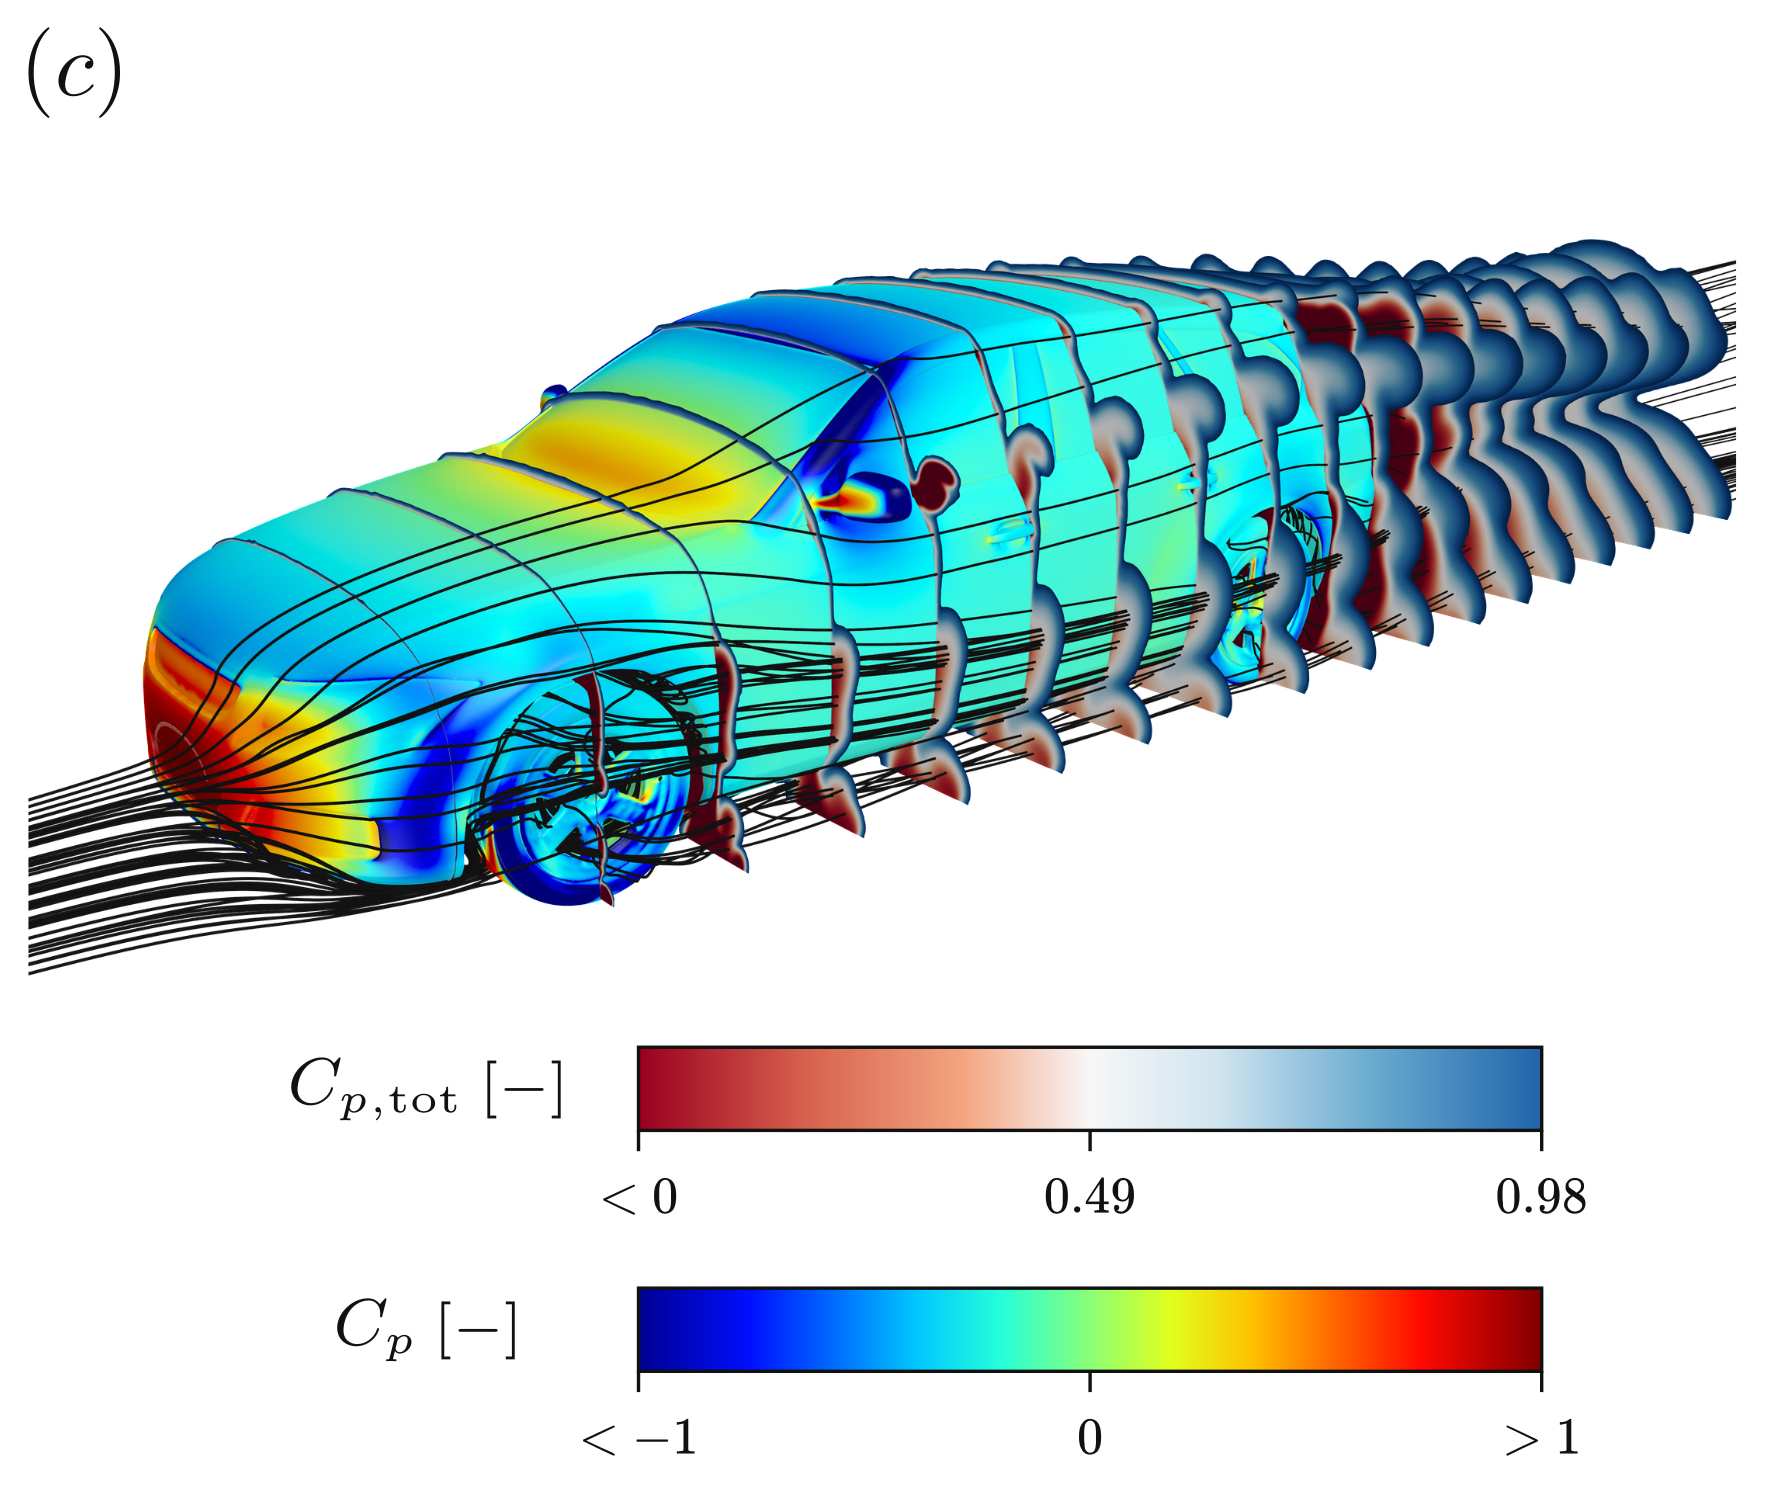
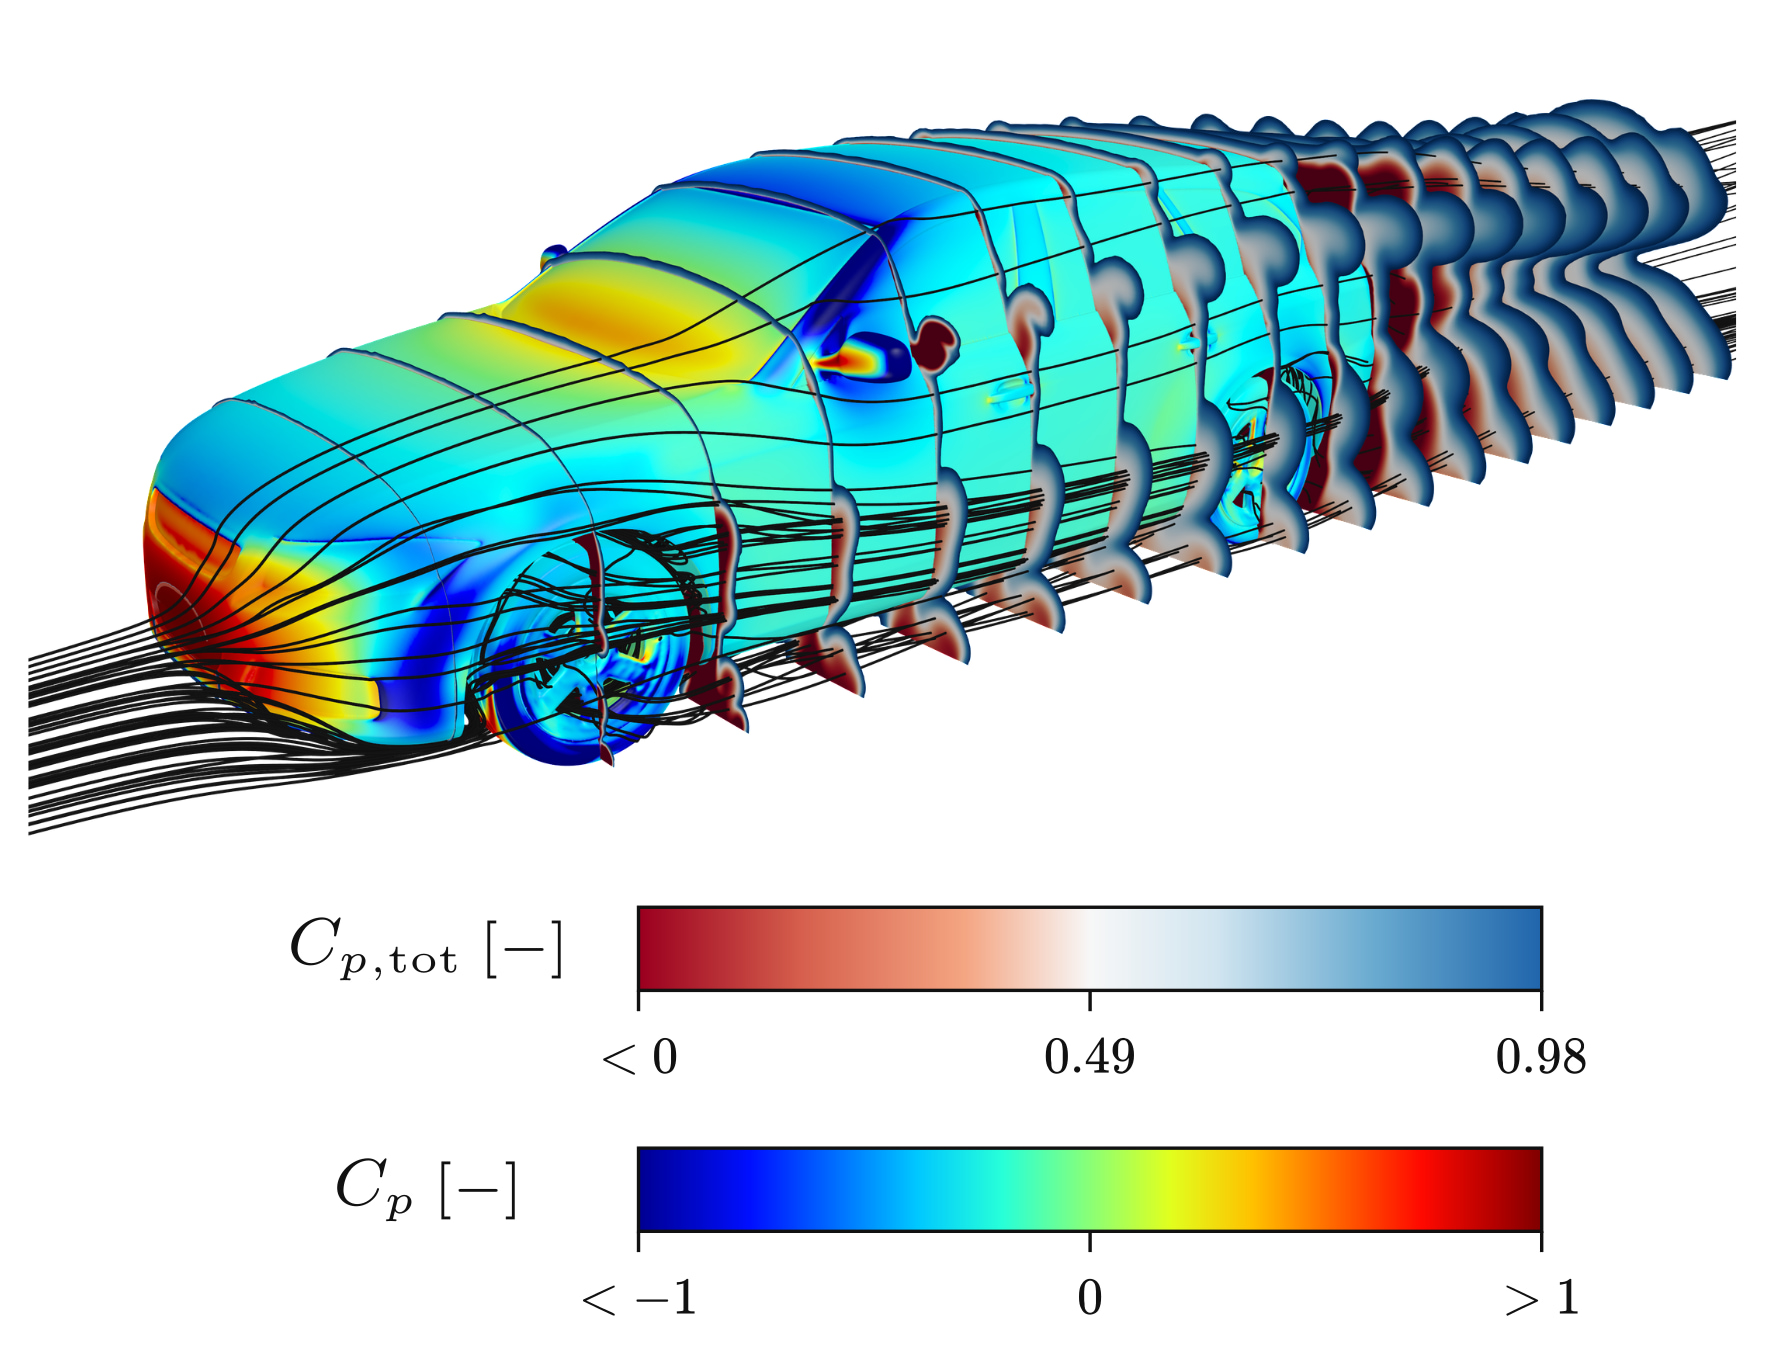
docs(dataset): sync authors and simplify figures
Background: The project-page citation retained the previous manuscript
author order. The new output panels included manuscript letters and table
decoration, and the geometry composite showed a detailed validation underbody.

Changes: Synchronize the author list and citation metadata with the current
manuscript. Crop the four output panels' label-only margins and use two
borderless image rows with captions. Restore the smooth-underbody composite
with the wheel MRF illustration, omit detailed-underbody geometry, and remove
the two restraint posts from its side view. Align full-vehicle/full-scale
wording with the dataset card.

Why: Present the dataset-production geometry and field examples directly,
without manuscript panel letters or table borders and alternating backgrounds.

Impact/Risk: Only the README, CITATION.cff, and five documentation images
change. Scientific field pixels, colour scales, code, splits, dataset files,
licence, DOI, cited release, and acknowledgements remain unchanged. Geometry
illustration edits are limited to the two restraint-post regions before JPEG
export; no manuscript figure is replaced.

Validation: Match the eight-author order to the manuscript and parse citation
metadata. Check local image and documentation links, two images per row, no
panel letters or HTML table in the representative-output section, and clean
diff formatting. Verify exported PNG pixels exactly match the retained source
[…]

diff --git a/README.md b/README.md
@@ -4,6 +4,8 @@
 
 ### A large-scale full-vehicle CFD dataset for wheel rim aerodynamics
 
+**Authors:** Chao Xia, Xi Zeng, Alexey Vdovin, Huanxia Wei, Simone Sebben, Carl Lewerth, Qing Jia, and Zhigang Yang.
+
 [![Dataset](https://img.shields.io/badge/Dataset-Hugging%20Face-FFD21E?logo=huggingface&logoColor=000)](https://huggingface.co/datasets/BeyondXia1212/DrivAerRim)
 [![DOI](https://img.shields.io/badge/DOI-10.57967%2Fhf%2F11461-2A7F62)](https://doi.org/10.57967/hf/11461)
 [![License](https://img.shields.io/badge/License-CC%20BY--NC%204.0-2A7F62)](LICENSE.md)
@@ -15,13 +17,15 @@
 [Citation](#citation) ·
 [Contact](#contact)
 
-<img src="assets/vehicle_geometry.jpg" alt="DrivAer Estateback side and front views, tyre geometry, smooth and detailed underbodies, and purple wind tunnel restraint posts" width="100%">
+<img src="assets/vehicle_geometry.jpg" alt="DrivAer Estateback side and front views, smooth underbody, and wheel MRF region" width="100%">
+<br>
+<em>Dataset geometry: side and front views, smooth underbody, and wheel rotation modelling.</em>
 
 </div>
 
 ## Overview
 
-**DrivAerRim** is a full vehicle computational fluid dynamics (CFD) dataset created to isolate the aerodynamic effects of rim geometry. It contains simulations of all **904 non-parametric rim geometries** from the [DeepWheel](https://huggingface.co/datasets/KAIST-SmartDesignLab/DeepWheel) collection installed on a fixed, full scale DrivAer estateback.
+**DrivAerRim** is a full-vehicle computational fluid dynamics (CFD) dataset created to isolate the aerodynamic effects of rim geometry. It contains simulations of all **904 non-parametric rim geometries** from the [DeepWheel](https://huggingface.co/datasets/KAIST-SmartDesignLab/DeepWheel) collection installed on a common full-scale DrivAer Estateback configuration.
 
 Only the rim geometry changes between cases. The vehicle, closed cooling configuration, smooth underbody, deformed Rain tyres, wheel positions, operating conditions, mesh strategy, solver settings, and exported quantities remain consistent. Each case uses the same rim design at all four wheel positions.
 
@@ -39,7 +43,7 @@ The release supports:
 |---|---|
 | Cases | 904, named `Rim0001` to `Rim0904` |
 | Total file size | Approximately 9.32 TB (8.48 TiB) |
-| Vehicle | Full scale DrivAer estateback, closed cooling, smooth underbody |
+| Vehicle | Full-scale DrivAer Estateback, closed cooling, smooth underbody |
 | Tyres | Deformed Rain pattern with longitudinal grooves and ground contact patches |
 | CFD method | Three-dimensional steady incompressible RANS |
 | Turbulence model | Realizable $k$-$\varepsilon$ two-layer model |
@@ -190,34 +194,21 @@ The surface field overviews below compare the front left wheel for the 50 lowest
 
 #### Representative surface and flow data
 
-The following panels show `Rim0265`, corresponding to Figure 9c-f of the manuscript.
+Representative surface and flow fields for `Rim0265` are shown below.
 
-<table>
-  <tr>
-    <td width="50%" align="center">
-      <img src="assets/rim0265_pressure_streamlines_slices.png" alt="Figure 9c: Rim0265 surface pressure, streamlines and total pressure coefficient slices, with the original colour scales" width="100%">
-      <br>
-      <em>(c) Surface pressure, streamlines and total pressure coefficient slices.</em>
-    </td>
-    <td width="50%" align="center">
-      <img src="assets/rim0265_skin_friction_velocity.png" alt="Figure 9d: Rim0265 skin-friction coefficient, wall shear stress oil flow patterns and streamwise velocity planes, with the original colour scales" width="100%">
-      <br>
-      <em>(d) Skin-friction coefficient, wall shear stress oil flow patterns and streamwise velocity planes.</em>
-    </td>
-  </tr>
-  <tr>
-    <td width="50%" align="center">
-      <img src="assets/rim0265_q_criterion.png" alt="Figure 9e: Q equals 2000 per second squared isosurfaces coloured by streamwise vorticity from minus 20 to 20 per second" width="100%">
-      <br>
-      <em>(e) Q = 2000 s<sup>-2</sup> isosurfaces, coloured by streamwise vorticity from -20 to 20 s<sup>-1</sup>.</em>
-    </td>
-    <td width="50%" align="center">
-      <img src="assets/rim0265_total_pressure_isosurface.png" alt="Figure 9f: Rim0265 total pressure coefficient isosurface at zero" width="100%">
-      <br>
-      <em>(f) Total pressure coefficient isosurface, C<sub>p,tot</sub> = 0.</em>
-    </td>
-  </tr>
-</table>
+<p align="center">
+  <img src="assets/rim0265_pressure_streamlines_slices.png" alt="Rim0265 surface pressure, streamlines and total pressure coefficient slices" width="49%">
+  <img src="assets/rim0265_skin_friction_velocity.png" alt="Rim0265 skin-friction coefficient, wall shear stress oil flow patterns and streamwise velocity planes" width="49%">
+  <br>
+  <em>Left: surface pressure, streamlines and total pressure coefficient slices. Right: skin-friction coefficient, wall shear stress oil flow patterns and streamwise velocity planes.</em>
+</p>
+
+<p align="center">
+  <img src="assets/rim0265_q_criterion.png" alt="Rim0265 Q equals 2000 per second squared isosurfaces coloured by streamwise vorticity" width="49%">
+  <img src="assets/rim0265_total_pressure_isosurface.png" alt="Rim0265 total pressure coefficient isosurface at zero" width="49%">
+  <br>
+  <em>Left: Q = 2000 s<sup>-2</sup> isosurfaces, coloured by streamwise vorticity from -20 to 20 s<sup>-1</sup>. Right: total pressure coefficient isosurface, C<sub>p,tot</sub> = 0.</em>
+</p>
 
 ## Code
 
@@ -295,11 +286,11 @@ CSV files can be read using standard tabular data tools. VTP and VTU files can b
 
 ## Citation
 
-Please cite the DOI-registered dataset release as follows:
+Please cite DrivAerRim as follows:
 
 ```bibtex
 @dataset{xia2026drivaerrim,
-  author    = {Xia, Chao and Sebben, Simone and Zeng, Xi and Vdovin, Alexey and Wei, Huanxia and Lewerth, Carl and Jia, Qing and Yang, Zhigang},
+  author    = {Xia, Chao and Zeng, Xi and Vdovin, Alexey and Wei, Huanxia and Sebben, Simone and Lewerth, Carl and Jia, Qing and Yang, Zhigang},
   title     = {DrivAerRim},
   year      = {2026},
   publisher = {Hugging Face},
